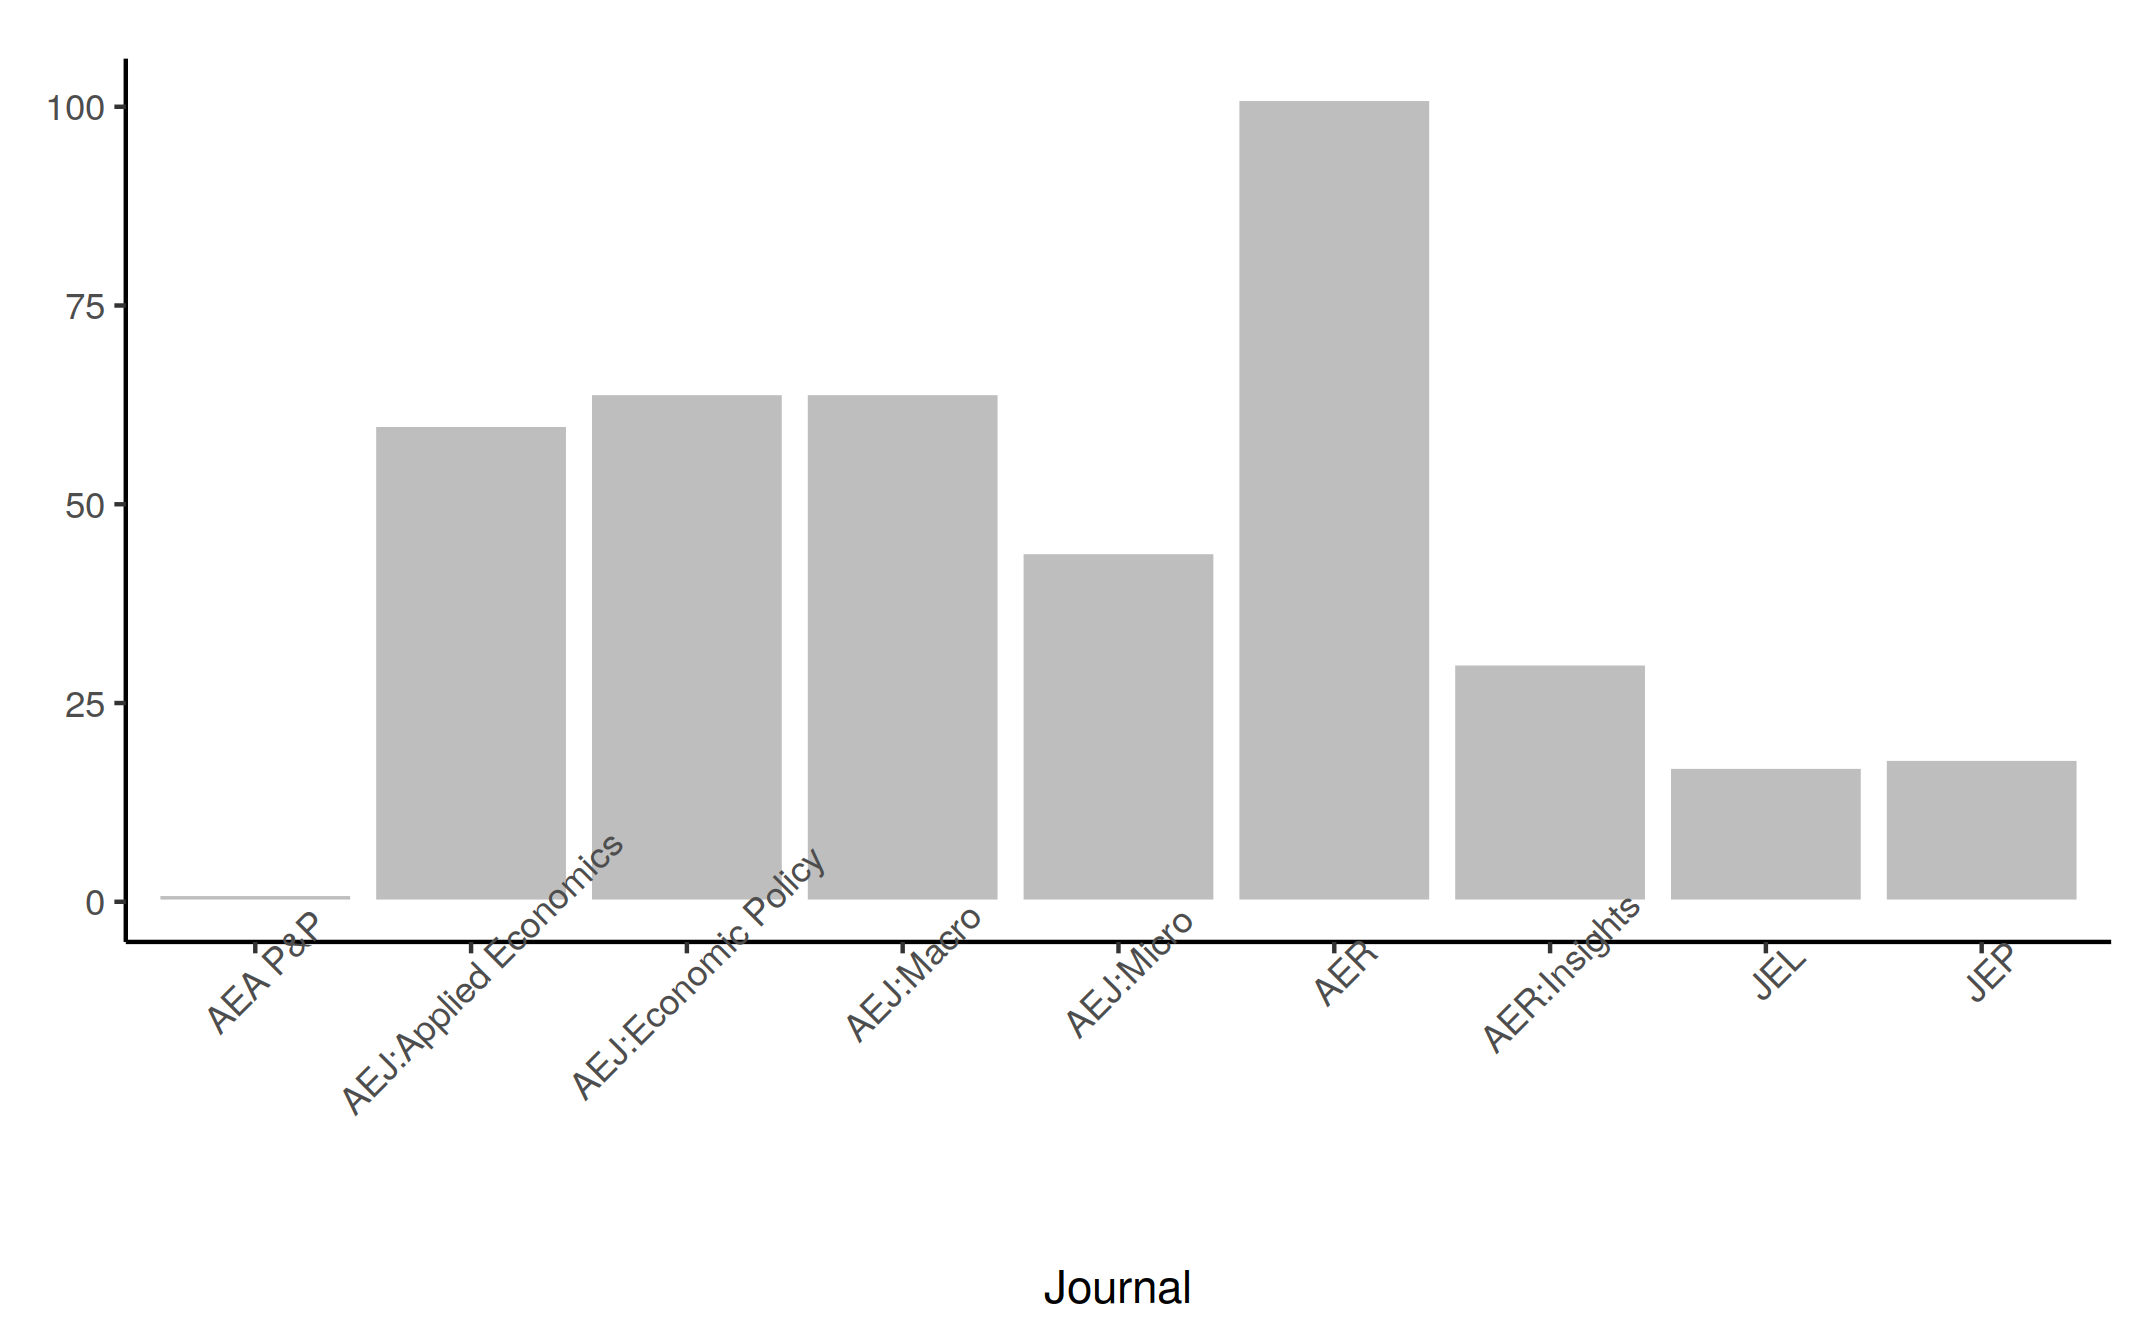
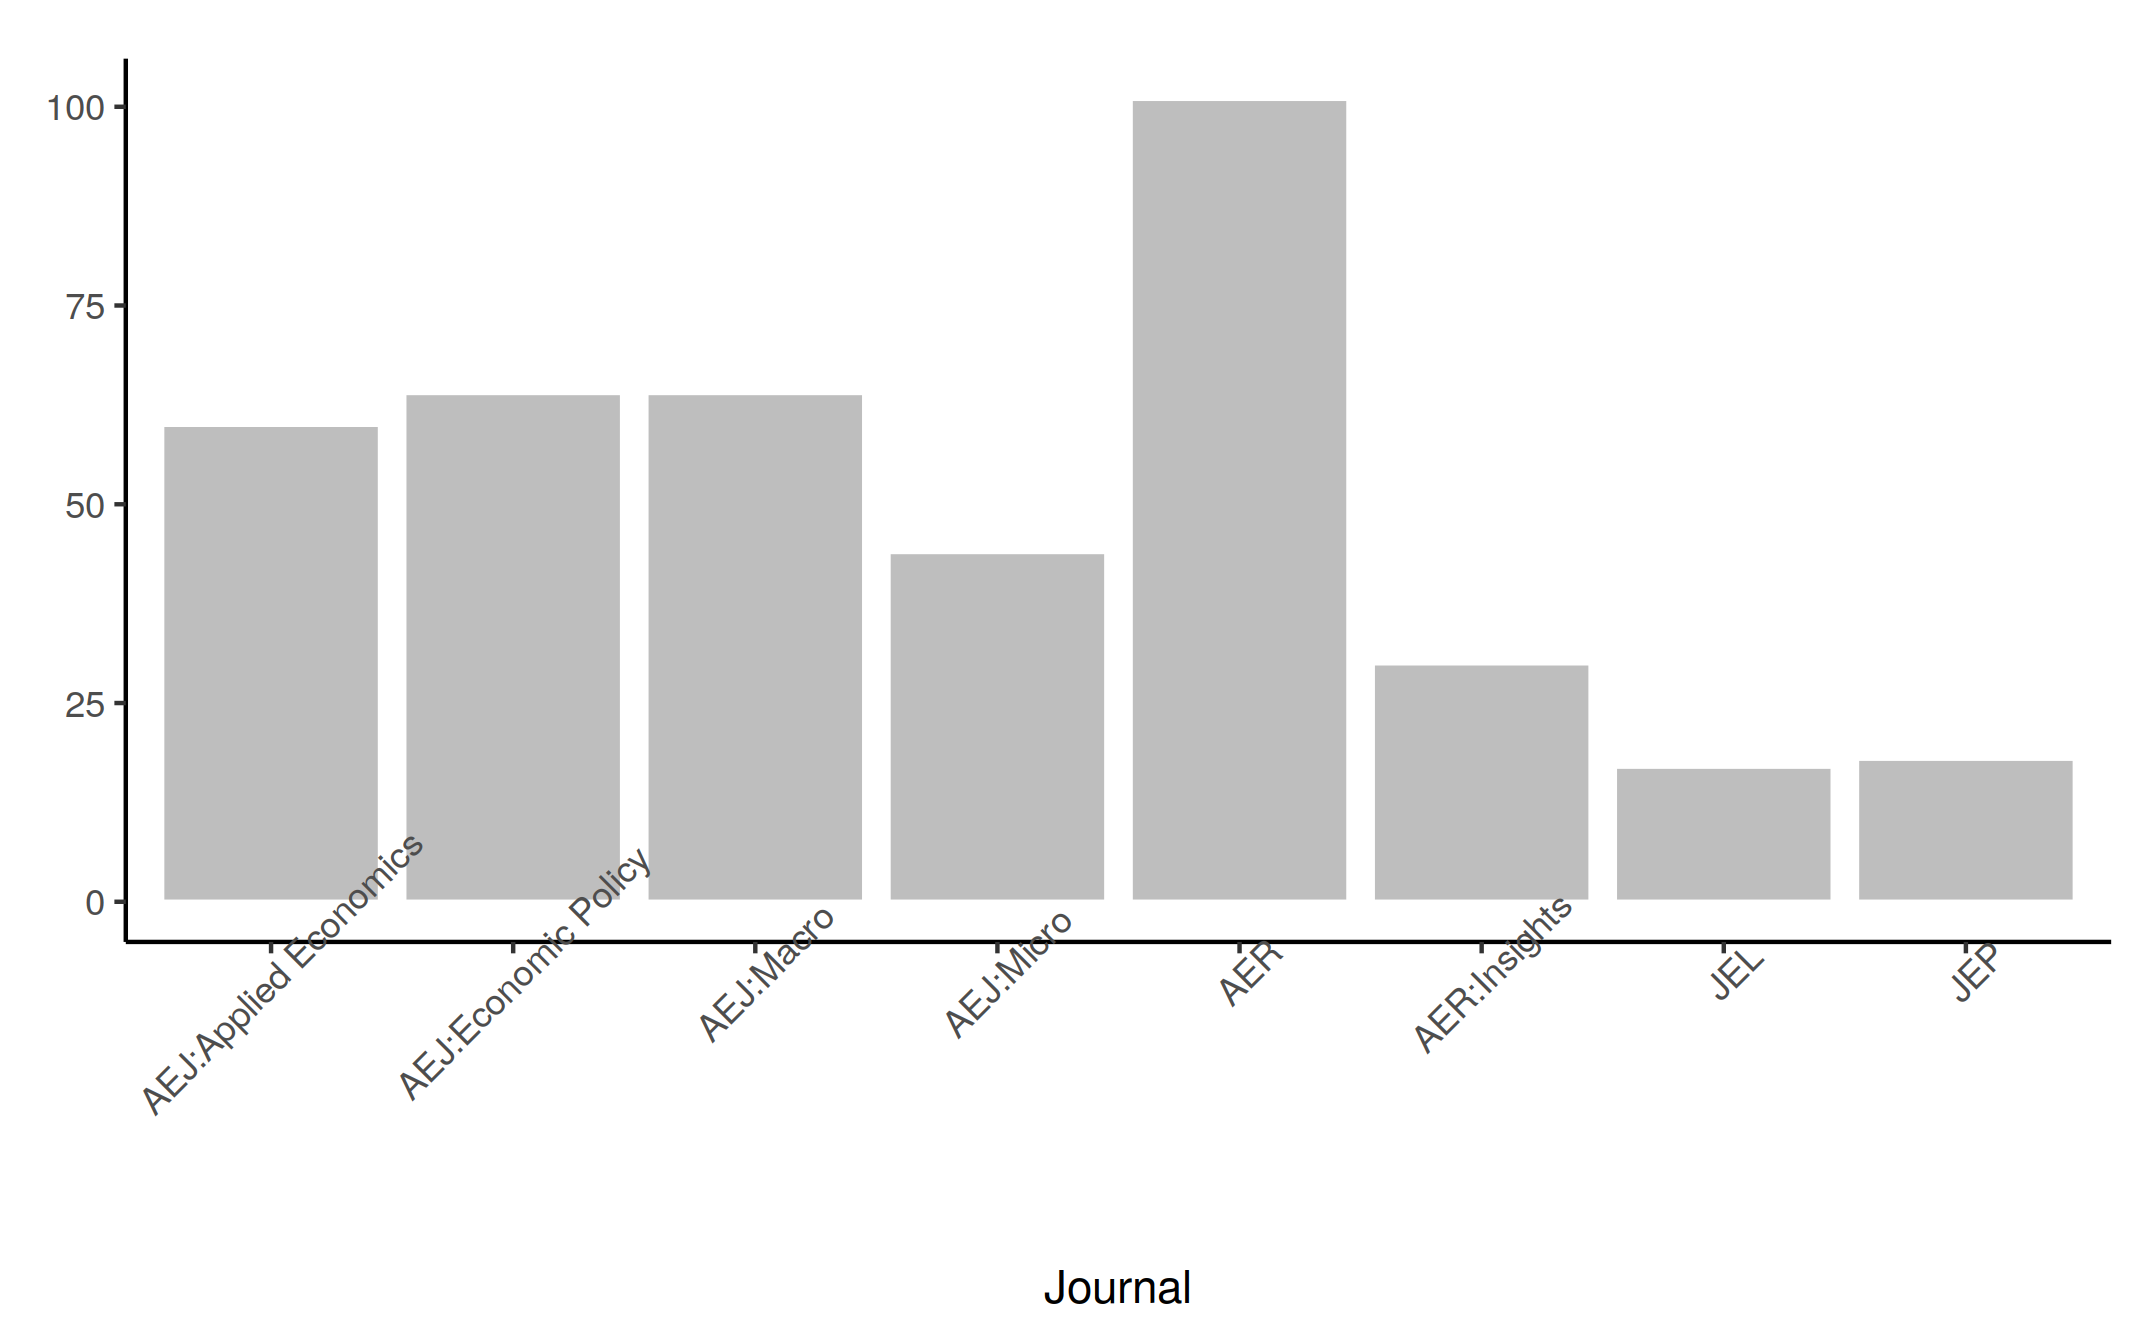
UPdates to numbers

diff --git a/tables/n_journal_numbers.tex b/tables/n_journal_numbers.tex
@@ -1,17 +1,17 @@
 
 % Table created by stargazer v.5.2 by Marek Hlavac, Harvard University. E-mail: hlavac at fas.harvard.edu
-% Date and time: Sun, Dec 13, 2020 - 06:31:59 PM
-\begin{tabular}{@{\extracolsep{5pt}} ccccc} 
+% Date and time: Sun, Dec 13, 2020 - 10:08:29 PM
+\begin{tabular}{@{\extracolsep{5pt}} ccccccccc} 
 \toprule 
- & Journal & Assessments & Manuscripts & External reports \\ 
-\midrule 1 & AEA P&P & 1 & 1 & NA \\ 
-2 & AEJ:Applied Economics & 106 & 60 & 2 \\ 
-3 & AEJ:Economic Policy & 113 & 64 & 13 \\ 
-4 & AEJ:Macro & 125 & 64 & 3 \\ 
-5 & AEJ:Micro & 77 & 44 & 4 \\ 
-6 & AER & 171 & 101 & 12 \\ 
-7 & AER:Insights & 52 & 30 & NA \\ 
-8 & JEL & 31 & 17 & 1 \\ 
-9 & JEP & 27 & 18 & NA \\ 
+ & Journal & Issues (rcvd) & Manuscripts (rcvd) & Issues (cplt) & Manuscripts (cplt) & Manuscripts (ext.) & Issues (external) & Manuscripts (pend.) \\ 
+\midrule 1 & AEA P&P & 91 & 91 & NA & NA & NA & NA & 86 \\ 
+2 & AEJ:Applied Economics & 125 & 63 & 106 & 60 & 2 & 2 & 41 \\ 
+3 & AEJ:Economic Policy & 139 & 74 & 113 & 64 & 8 & 13 & 52 \\ 
+4 & AEJ:Macro & 150 & 68 & 125 & 64 & 2 & 3 & 44 \\ 
+5 & AEJ:Micro & 92 & 45 & 77 & 44 & 3 & 4 & 33 \\ 
+6 & AER & 205 & 110 & 171 & 101 & 10 & 12 & 78 \\ 
+7 & AER:Insights & 56 & 31 & 52 & 30 & NA & NA & 25 \\ 
+8 & JEL & 35 & 20 & 31 & 17 & 1 & 1 & 16 \\ 
+9 & JEP & 30 & 20 & 27 & 18 & NA & NA & 13 \\ 
 \bottomrule 
 \end{tabular} 

diff --git a/tables/external_total_journal.tex b/tables/external_total_journal.tex
@@ -1,14 +1,14 @@
 
 % Table created by stargazer v.5.2 by Marek Hlavac, Harvard University. E-mail: hlavac at fas.harvard.edu
-% Date and time: Sun, Dec 13, 2020 - 06:28:41 PM
-\begin{tabular}{@{\extracolsep{5pt}} ccc} 
+% Date and time: Sun, Dec 13, 2020 - 10:04:30 PM
+\begin{tabular}{@{\extracolsep{5pt}} cccc} 
 \toprule 
- & Journal & external\_numbers \\ 
-\midrule 1 & AEJ:Applied Economics & 2 \\ 
-2 & AEJ:Economic Policy & 13 \\ 
-3 & AEJ:Macro & 3 \\ 
-4 & AEJ:Micro & 4 \\ 
-5 & AER & 12 \\ 
-6 & JEL & 1 \\ 
+ & Journal & mcs\_external & issues\_external \\ 
+\midrule 1 & AEJ:Applied Economics & 2 & 2 \\ 
+2 & AEJ:Economic Policy & 8 & 13 \\ 
+3 & AEJ:Macro & 2 & 3 \\ 
+4 & AEJ:Micro & 3 & 4 \\ 
+5 & AER & 10 & 12 \\ 
+6 & JEL & 1 & 1 \\ 
 \bottomrule 
 \end{tabular} 

diff --git a/tables/issues_total_journal.tex b/tables/issues_total_journal.tex
@@ -1,0 +1,17 @@
+
+% Table created by stargazer v.5.2 by Marek Hlavac, Harvard University. E-mail: hlavac at fas.harvard.edu
+% Date and time: Sun, Dec 13, 2020 - 10:00:51 PM
+\begin{tabular}{@{\extracolsep{5pt}} cccc} 
+\toprule 
+ & Journal & issue\_numbers & mcs\_numbers \\ 
+\midrule 1 & AEA P&P & 91 & 91 \\ 
+2 & AEJ:Applied Economics & 125 & 63 \\ 
+3 & AEJ:Economic Policy & 139 & 74 \\ 
+4 & AEJ:Macro & 150 & 68 \\ 
+5 & AEJ:Micro & 92 & 45 \\ 
+6 & AER & 205 & 110 \\ 
+7 & AER:Insights & 56 & 31 \\ 
+8 & JEL & 35 & 20 \\ 
+9 & JEP & 30 & 20 \\ 
+\bottomrule 
+\end{tabular} 

diff --git a/tables/assess_cplt_journal.tex b/tables/assess_cplt_journal.tex
@@ -1,0 +1,16 @@
+
+% Table created by stargazer v.5.2 by Marek Hlavac, Harvard University. E-mail: hlavac at fas.harvard.edu
+% Date and time: Sun, Dec 13, 2020 - 10:04:22 PM
+\begin{tabular}{@{\extracolsep{5pt}} cccc} 
+\toprule 
+ & Journal & issues\_cplt & mcs\_cplt \\ 
+\midrule 1 & AEJ:Applied Economics & 106 & 60 \\ 
+2 & AEJ:Economic Policy & 113 & 64 \\ 
+3 & AEJ:Macro & 125 & 64 \\ 
+4 & AEJ:Micro & 77 & 44 \\ 
+5 & AER & 171 & 101 \\ 
+6 & AER:Insights & 52 & 30 \\ 
+7 & JEL & 31 & 17 \\ 
+8 & JEP & 27 & 18 \\ 
+\bottomrule 
+\end{tabular} 

diff --git a/tables/pendingpub_by_journal.tex b/tables/pendingpub_by_journal.tex
@@ -1,0 +1,17 @@
+
+% Table created by stargazer v.5.2 by Marek Hlavac, Harvard University. E-mail: hlavac at fas.harvard.edu
+% Date and time: Sun, Dec 13, 2020 - 10:04:27 PM
+\begin{tabular}{@{\extracolsep{5pt}} ccc} 
+\toprule 
+ & Journal & mcs\_pendingpub \\ 
+\midrule 1 & AEA P&P & 86 \\ 
+2 & AEJ:Applied Economics & 41 \\ 
+3 & AEJ:Economic Policy & 52 \\ 
+4 & AEJ:Macro & 44 \\ 
+5 & AEJ:Micro & 33 \\ 
+6 & AER & 78 \\ 
+7 & AER:Insights & 25 \\ 
+8 & JEL & 16 \\ 
+9 & JEP & 13 \\ 
+\bottomrule 
+\end{tabular} 
